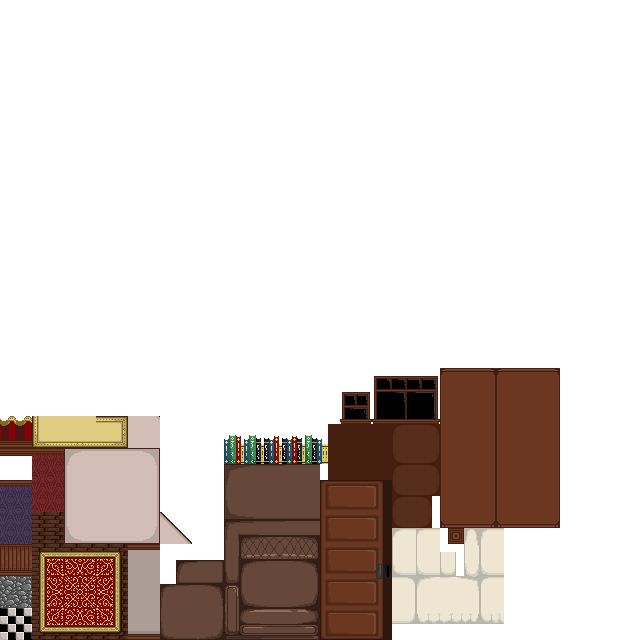
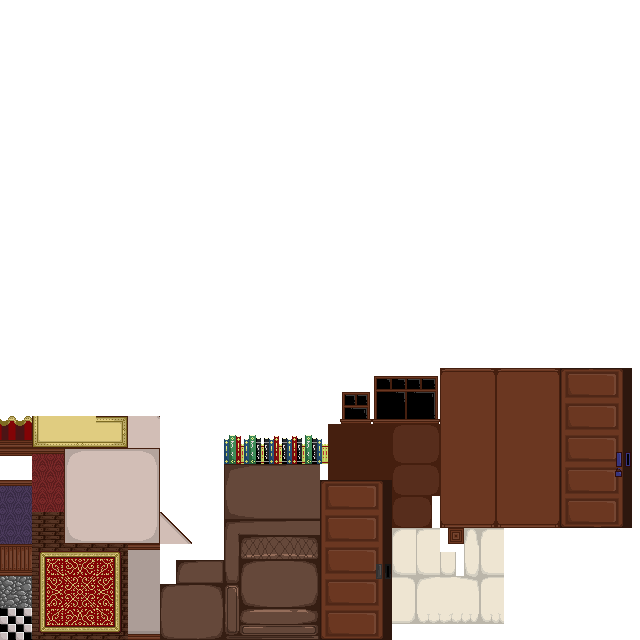
LAST COMMIT B4 KILLING ACCELEROMETER

Changed region(s): [[0.875, 0.5625, 1.0, 0.8438]]

diff --git a/src/ofApp.cpp b/src/ofApp.cpp
@@ -8,6 +8,7 @@
 //--------------------------------------------------------------
 void ofApp::setup()
 {
+	ofSetVerticalSync(true);
 	ofSetBackgroundColor(ofColor::black);
 
 	// Load 3D models
@@ -38,7 +39,7 @@ void ofApp::setup()
 	m_healthPercentage = 1.0f;
 
 	// Set up controller
-	m_arduino.connect("COM6", 9600);
+	m_arduino.connect(ARDUINO_DEVICE_NAME, ARDUINO_BAUD_RATE);
 	ofAddListener(m_arduino.EInitialized, this, &ofApp::setupArduino);
 	m_bSetup = false;
 
@@ -54,7 +55,9 @@ void ofApp::setup()
 	
 	// Create mobs
 	mobs.push_back(Mob(0, {2, 0, 5}, 15, &m_cam));
-
+	
+	// Create doors
+	doors.push_back(Door({ 1, 0, 3 }, 0, false));
 
 	ofEnableDepthTest();
 }
@@ -63,8 +66,6 @@ void ofApp::setup()
 void ofApp::update()
 {
 	updateArduino();
-
-	//
 
 	m_camLight.setPosition(m_cam.getPosition());
 	m_cam.rotateDeg(0.5f * m_camRotFactor, 0, 1, 0);
@@ -120,6 +121,10 @@ void ofApp::draw(){
 			m_tilesheet.bind();
 			{
 				m_mansion.draw();
+				for (int i = 0; i < doors.size(); i++)
+				{
+					doors.at(i).draw();
+				}
 			}
 			m_tilesheet.unbind();
 
@@ -192,35 +197,14 @@ void ofApp::setupArduino(const int& version) {
 	m_bSetup = true;
 
 	// print firmware name and version to the console
-	ofLogNotice() << "AHHHHHHHHHHHHHHHHHH!";
 	ofLogNotice() << m_arduino.getFirmwareName();
 	ofLogNotice() << "firmata v" << m_arduino.getMajorFirmwareVersion() << "." << m_arduino.getMinorFirmwareVersion();
-
-	// Note: pins A0 - A5 can be used as digital input and output.
-	// Refer to them as pins 14 - 19 if using StandardFirmata from Arduino 1.0.
-	// If using Arduino 0022 or older, then use 16 - 21.
-	// Firmata pin numbering changed in version 2.3 (which is included in Arduino 1.0)
-
 	
-
-	// set pins D2 and A5 to digital input
-	m_arduino.sendDigitalPinMode(2, ARD_INPUT);
-	m_arduino.sendDigitalPinMode(19, ARD_INPUT);  // pin 21 if using StandardFirmata from Arduino 0022 or older
-
-	// set pin A0 to analog input
-	m_arduino.sendAnalogPinReporting(0, ARD_ANALOG);
-
-	// set pin D13 as digital output
-	m_arduino.sendDigitalPinMode(13, ARD_OUTPUT);
-	// set pin A4 as digital output
-	m_arduino.sendDigitalPinMode(18, ARD_OUTPUT);  // pin 20 if using StandardFirmata from Arduino 0022 or older
-
-	// set pin D11 as PWM (analog output)
-	m_arduino.sendDigitalPinMode(11, ARD_PWM);
-
-	// attach a servo to pin D9
-	// servo motors can only be attached to pin D3, D5, D6, D9, D10, or D11
-	m_arduino.sendServoAttach(9);
+	m_arduino.sendDigitalPinMode(PIN_BUTTON_INPUT, ARD_INPUT);
+	m_arduino.sendAnalogPinReporting(PIN_JOYSTICK_X_INPUT, ARD_ANALOG);
+	m_arduino.sendAnalogPinReporting(PIN_JOYSTICK_Y_INPUT, ARD_ANALOG);
+	m_arduino.sendAnalogPinReporting(PIN_ACCELEROMETER_X_INPUT, ARD_ANALOG);
+	m_arduino.sendAnalogPinReporting(PIN_ACCELEROMETER_Y_INPUT, ARD_ANALOG);
 
 	// Listen for changes on the digital and analog pins
 	ofAddListener(m_arduino.EDigitalPinChanged, this, &ofApp::digitalPinChanged);
@@ -230,22 +214,19 @@ void ofApp::setupArduino(const int& version) {
 //--------------------------------------------------------------
 void ofApp::updateArduino() {
 
-	// update the arduino, get any data or messages.
-	// the call to ard.update() is required
 	m_arduino.update();
-	printf("%i\n\n", m_arduino.getTotalPins());
-	m_buttonVal = m_arduino.getDigital(PIN_BUTTON_INPUT);
-	m_joystickVal.set(m_arduino.getAnalog(PIN_JOYSTICK_X_INPUT), m_arduino.getAnalog(PIN_JOYSTICK_Y_INPUT));
-	 m_accelerometerVal.set(m_arduino.getAnalog(PIN_ACCELEROMETER_X_INPUT), m_arduino.getAnalog(PIN_ACCELEROMETER_Y_INPUT));
-
-	//printf("%i     |     ( %f, %f )     |     ( %f, %f, %f )\n\n", (int)m_buttonVal, m_joystickVal.x, m_joystickVal.y, m_accelerometerVal.x, m_accelerometerVal.y, m_accelerometerVal.z);
 
 	// do not send anything until the arduino has been set up
 	if (m_bSetup) {
-		// fade the led connected to pin D11
-		m_arduino.sendPwm(11, (int)(128 + 128 * sin(ofGetElapsedTimef())));   // pwm...
-	}
+		m_joystickVal.x = m_arduino.getAnalog(PIN_JOYSTICK_X_INPUT);
+		m_joystickVal.y = m_arduino.getAnalog(PIN_JOYSTICK_Y_INPUT);
+		m_accelerometerVal.x = m_arduino.getAnalog(PIN_ACCELEROMETER_X_INPUT);
+		m_accelerometerVal.y = m_arduino.getAnalog(PIN_ACCELEROMETER_Y_INPUT);
+		m_buttonVal = m_arduino.getDigital(PIN_BUTTON_INPUT);
 
+		//printf("(%i, %i)   |   (%i, %i)   |   %f\n", m_joystickVal.x, m_joystickVal.y, m_accelerometerVal.x, m_accelerometerVal.y, m_buttonVal);
+		cout << "(" << m_joystickVal.x << ", " << m_joystickVal.y << ")   |   (" << m_accelerometerVal.x << ", " << m_accelerometerVal.y << ")   |   " << m_buttonVal << "\n";
+	}
 }
 
 // digital pin event handler, called whenever a digital pin value has changed

diff --git a/src/ofApp.h b/src/ofApp.h
@@ -4,21 +4,21 @@
 #include "ofxAssimpModelLoader.h"
 //#include "ofxImGui.h"
 #include "Mob.h"
+#include "Door.h"
 #include "ofArduino.h"
 
 class ofApp : public ofBaseApp
 {
 	public:
 		// Controller
-		//ofSerial m_serial;
 		ofArduino m_arduino;
 		const std::string ARDUINO_DEVICE_NAME = "COM6";
-		static const int ARDUINO_BAUD_RATE = 9600;
+		static const int ARDUINO_BAUD_RATE = 57600;
 		static const int PIN_BUTTON_INPUT = 8;
-		static const int PIN_JOYSTICK_X_INPUT = 0 + 14;
-		static const int PIN_JOYSTICK_Y_INPUT = 1 + 14;
-		static const int PIN_ACCELEROMETER_X_INPUT = 4 + 14;
-		static const int PIN_ACCELEROMETER_Y_INPUT = 5 + 14;
+		static const int PIN_JOYSTICK_X_INPUT = 14;
+		static const int PIN_JOYSTICK_Y_INPUT = 15;
+		static const int PIN_ACCELEROMETER_X_INPUT = 18;
+		static const int PIN_ACCELEROMETER_Y_INPUT = 19;
 		bool m_buttonVal;
 		ofVec2f m_joystickVal;
 		ofVec3f m_accelerometerVal;
@@ -47,6 +47,9 @@ class ofApp : public ofBaseApp
 		float m_uiRot;
 
 		bool m_isSucking = false;
+
+		// Doors
+		std::vector<Door> doors;
 
 		// Mobs
 		std::vector<Mob> mobs;

diff --git a/src/Door.cpp b/src/Door.cpp
@@ -1,0 +1,31 @@
+#include "Door.h"
+
+Door::Door(ofVec3f _pos, float _rot, bool _isLocked)
+{
+	pos = _pos;
+	rot = _rot;
+	isClosed = true;
+	isLocked = _isLocked;
+
+	ofxAssimpModelLoader loader;
+	loader.loadModel("models/door" + ofToString(isLocked) + ".obj");
+	mesh = loader.getMesh(0);
+	ofMesh mesh;
+}
+
+void Door::unlock(bool* _key)
+{
+	_key = false; // Player uses up their key and no longer has one.
+	//delete this;
+}
+
+void Door::draw()
+{
+	ofPushMatrix();
+	{
+		ofTranslate(pos.x, pos.y, pos.z);
+		ofRotateYDeg(rot);
+		mesh.draw();
+	}
+	ofPopMatrix();
+}

diff --git a/src/Door.h b/src/Door.h
@@ -1,0 +1,17 @@
+#pragma once
+#include "ofMain.h"
+#include "ofxAssimpModelLoader.h"
+
+class Door : public ofBaseApp
+{
+public:
+	ofVec3f pos;
+	float rot;
+	bool isClosed, isLocked;
+	ofMesh mesh;
+
+
+	Door(ofVec3f _pos, float _rot, bool _isLocked);
+	void unlock(bool* _key);
+	void draw();
+};

diff --git a/src/Mob.cpp b/src/Mob.cpp
@@ -42,7 +42,12 @@ Mob::Mob(int _type, ofVec3f _pos, float _rot, ofEasyCam *_player)
 	isAwareOfPlayer = false;
 	lastTimeAwareOfPlayer = NULL;
 }
-
+/*
+Mob::~Mob()
+{
+	delete player;
+}
+*/
 void Mob::update()
 {
 	switch (state)

diff --git a/src/Mob.h b/src/Mob.h
@@ -18,6 +18,7 @@ public:
 	//Sector sector;
 
 	Mob(int _type, ofVec3f _pos, float _rot, ofEasyCam *_player);
+	//~Mob();
 	void update();
 	void draw();
 	void chase();
